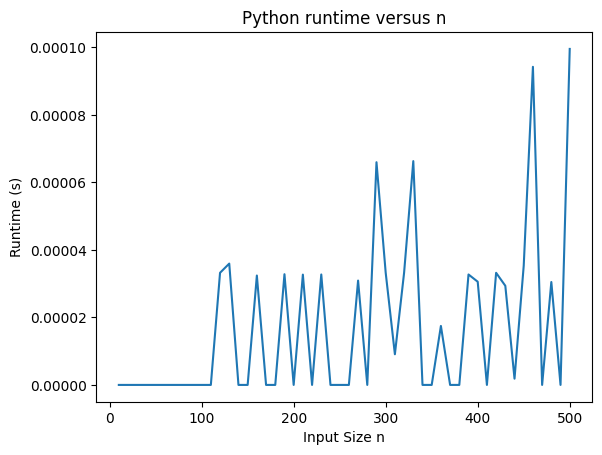
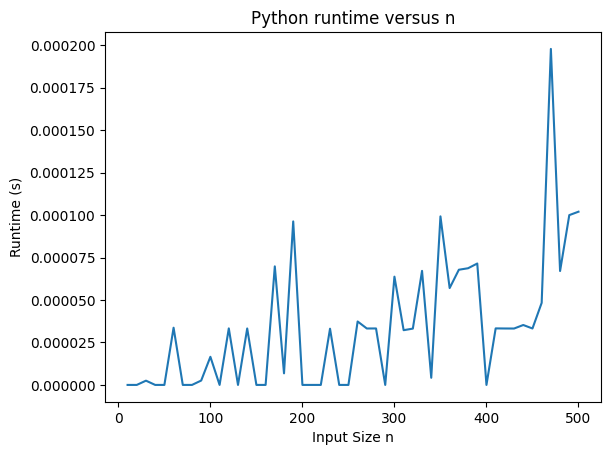
BubbleSort modified. Pictures generated.

diff --git a/Project1/project1.py b/Project1/project1.py
@@ -28,15 +28,14 @@ def SelectionSort(listToSort):
 InsertionSort
 """
 def InsertionSort(listToSort):
+
     for i in range(len(listToSort)):
         num = listToSort[i]
         j = i-1
         while j >=0 and listToSort[j]>listToSort[j+1]:
             listToSort[j+1],listToSort[j] = listToSort[j],listToSort[j+1]
             j = j-1
-        pass
         listToSort[j+1] = num
-    pass
 
     return listToSort
 
@@ -44,10 +43,14 @@ def InsertionSort(listToSort):
 BubbleSort
 """
 def BubbleSort(listToSort):
+    flag = True
     for i in range(1,len(listToSort)):
-        for j in range(0,len(listToSort)-i):
-            if listToSort[j]>listToSort[j+1]:
-                listToSort[j],listToSort[j+1]=listToSort[j+1],listToSort[j]
+        if flag:
+            flag = False;
+            for j in range(0,len(listToSort)-i):
+                if listToSort[j]>listToSort[j+1]:
+                    flag = True
+                    listToSort[j],listToSort[j+1]=listToSort[j+1],listToSort[j]
     return listToSort
 
 """
@@ -101,12 +104,13 @@ def QuickSort(listToSort, i=0, j=None):
     return listToSort
 
 def partition(list,begin,end):
-    pivot = begin
+    pivot = (begin+end)//2
     list[pivot],list[end-1] = list[end-1],list[pivot]
     l = begin
     for i in range(begin,end-1):
         if list[i] < list[end-1]:
-            list[l],list[i] = list[i],list[l]
+            if l!=i:
+                list[l],list[i] = list[i],list[l]
             l = l+1
     list[l],list[end-1] = list[end-1],list[l]
     return l
